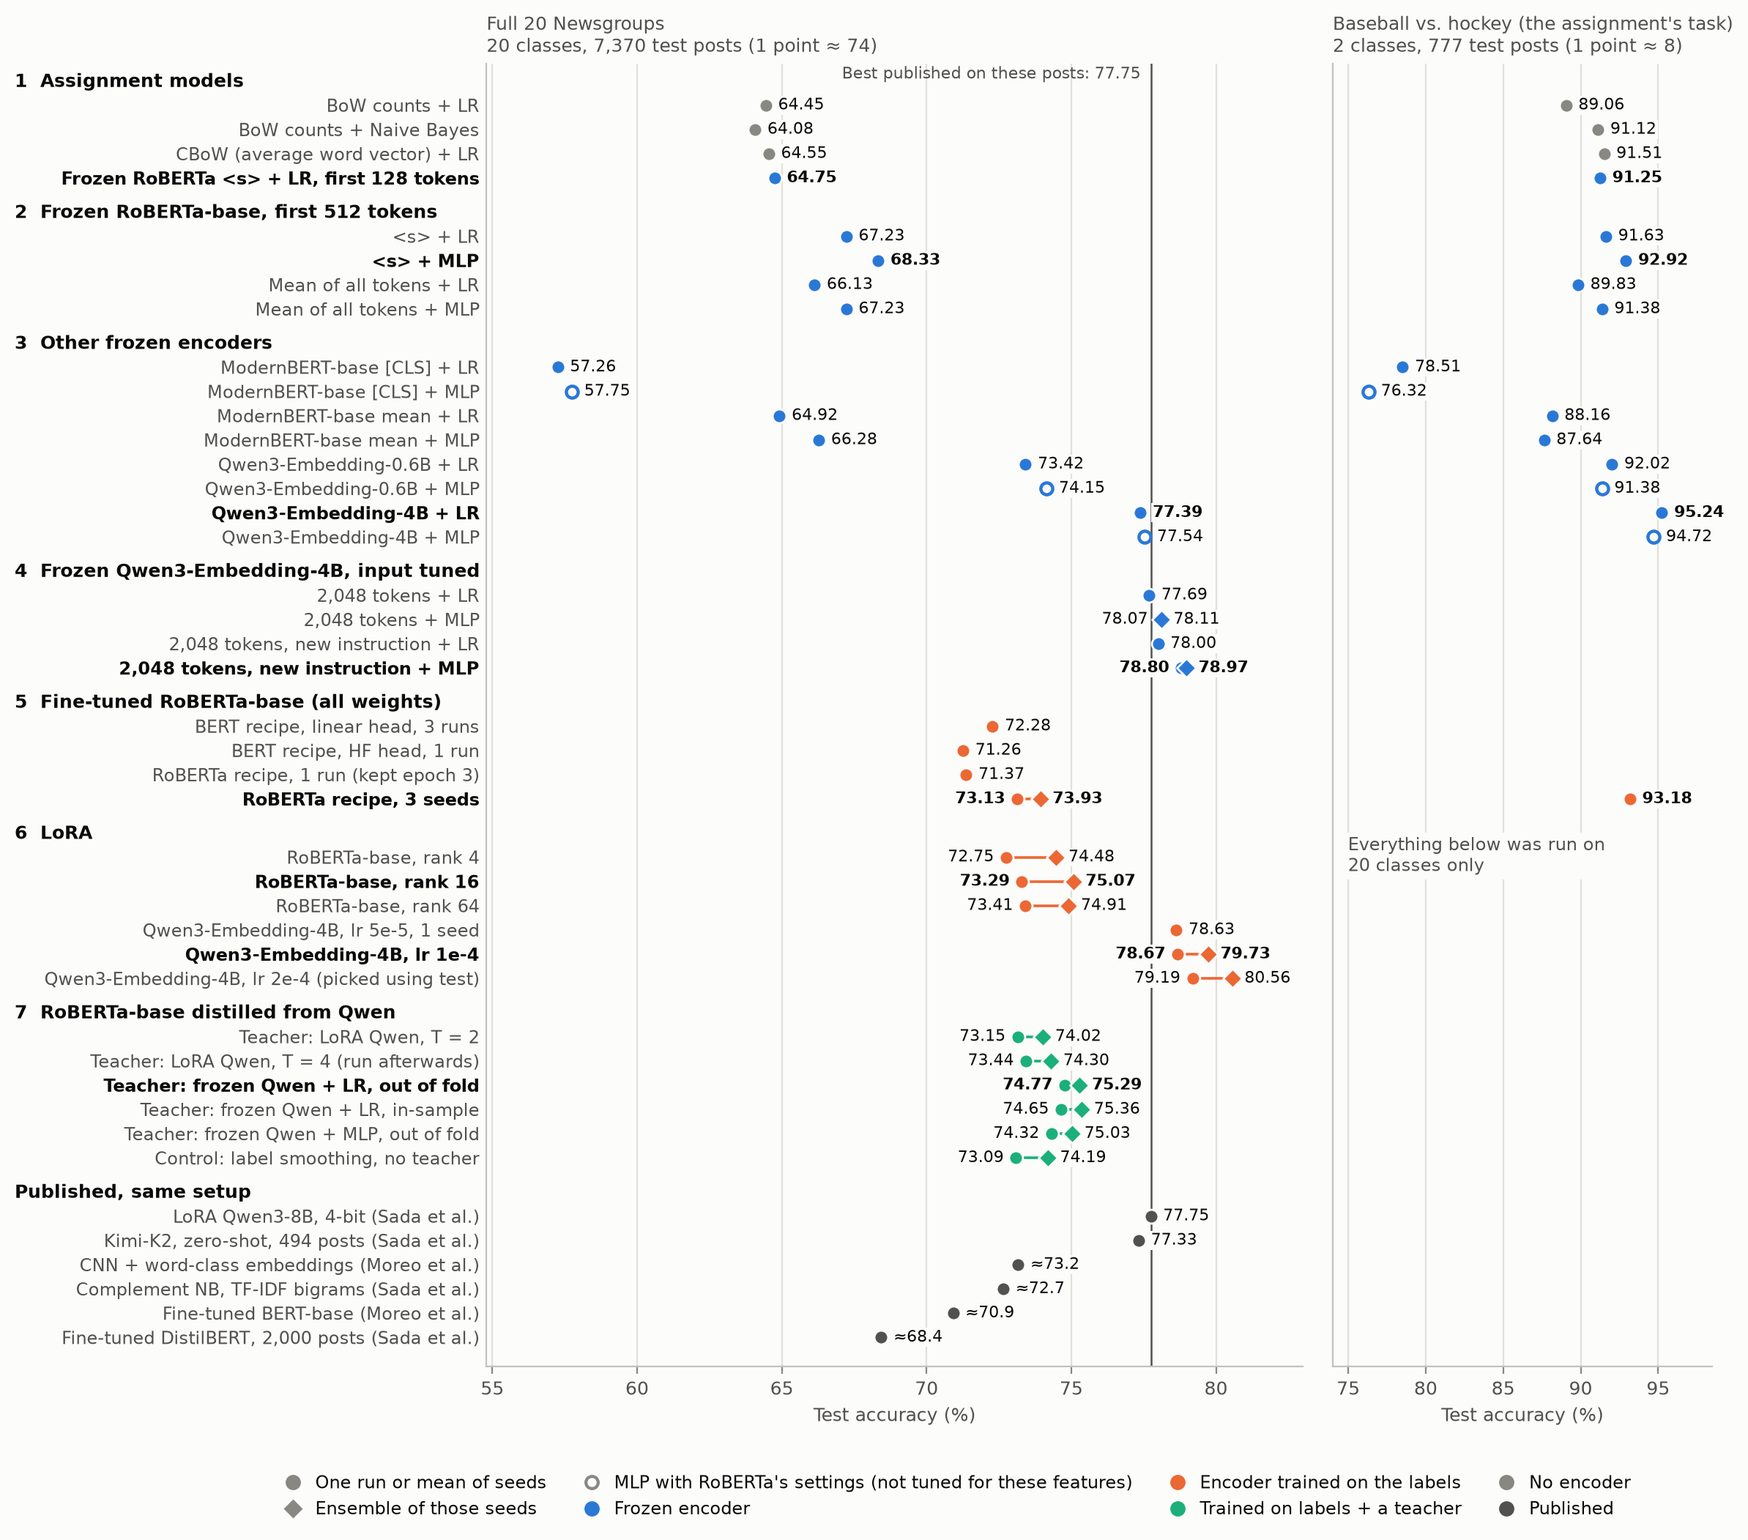
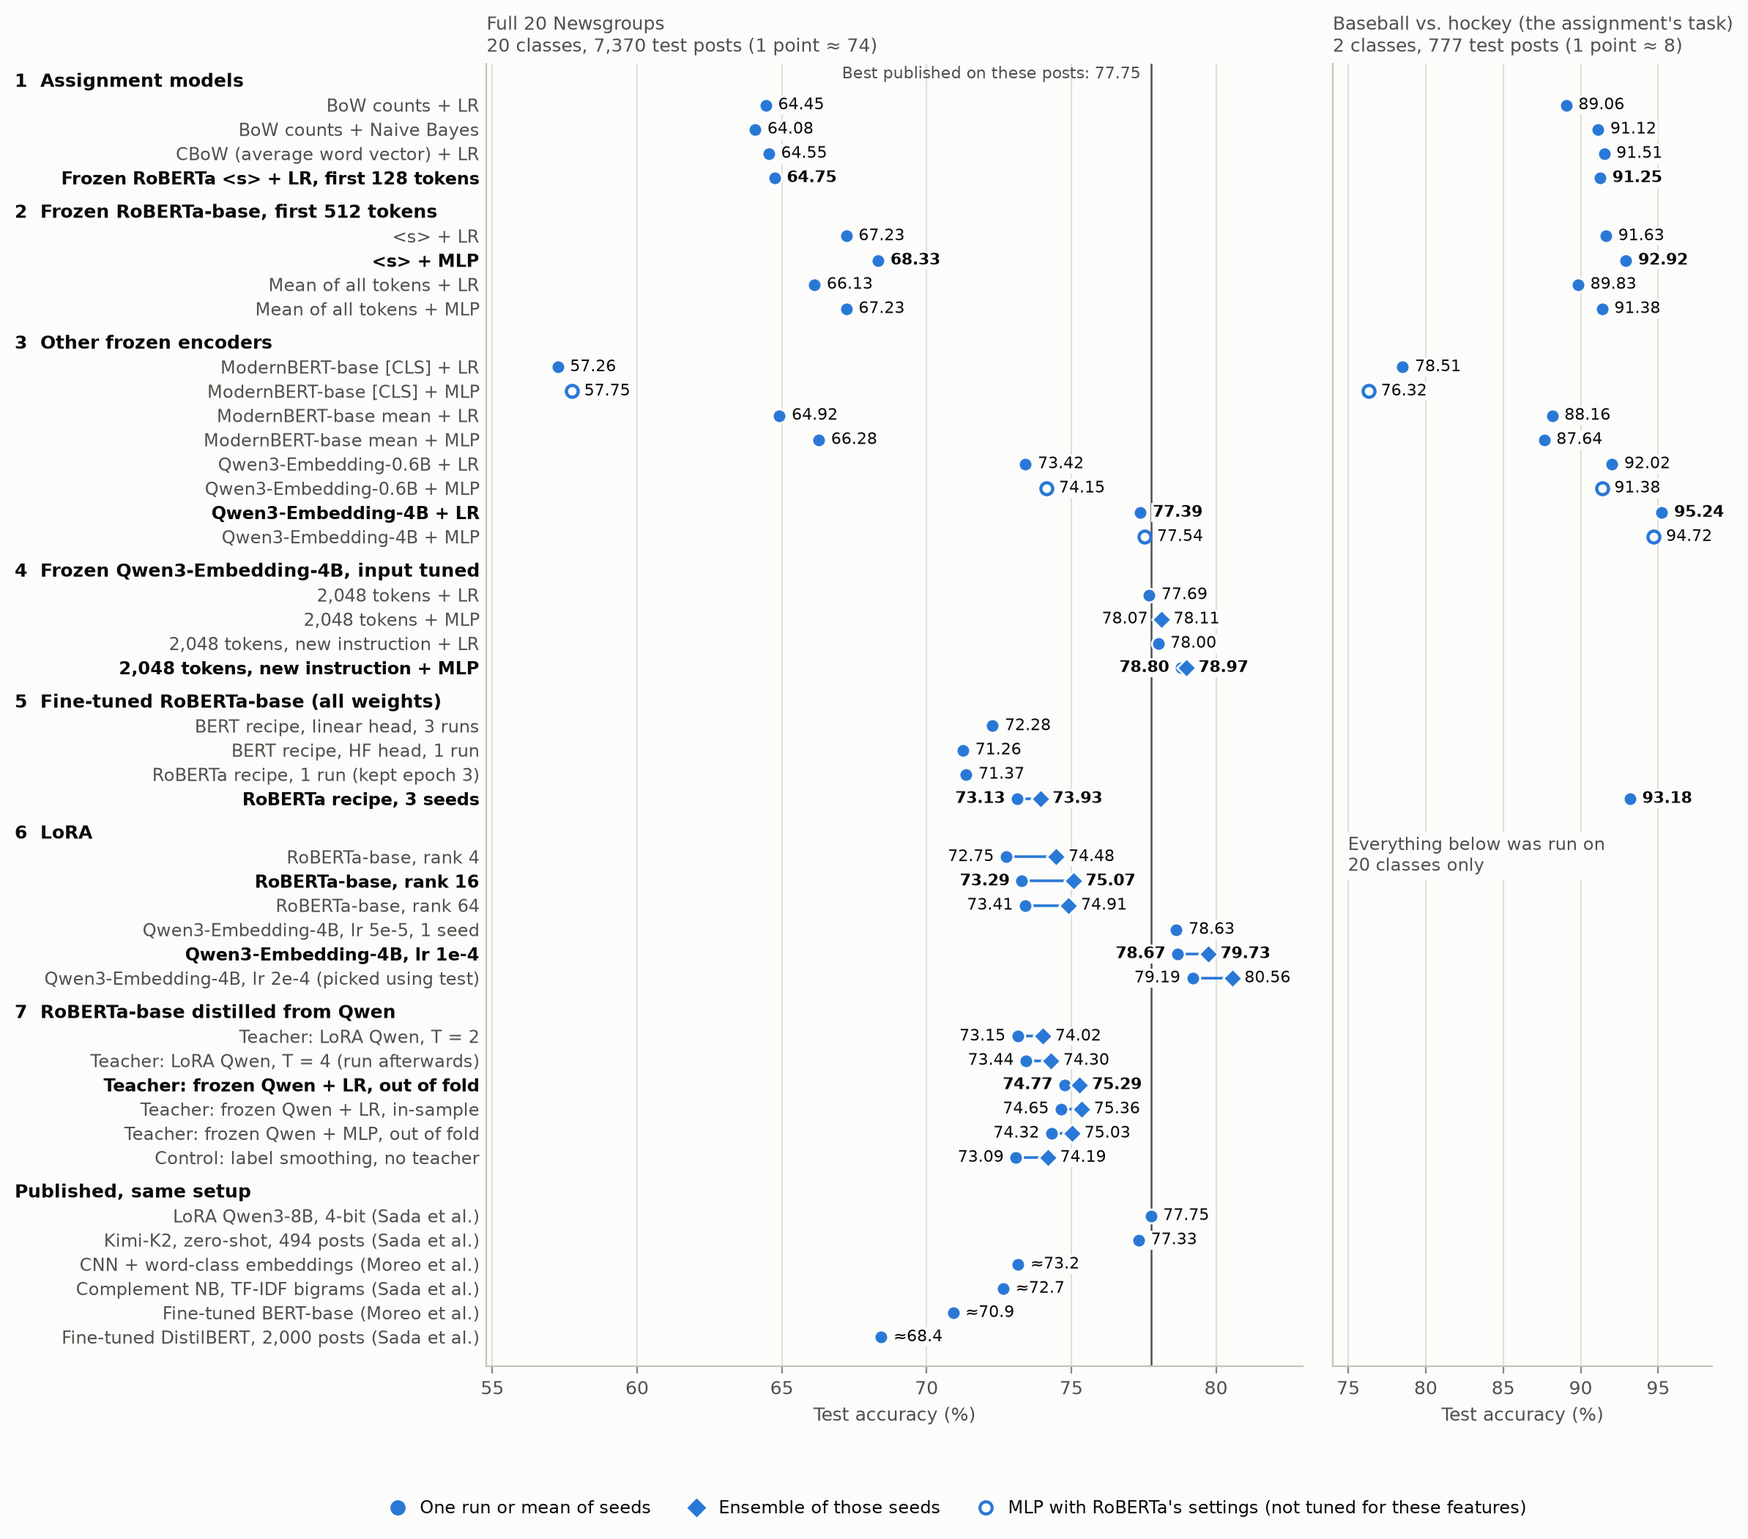
Change README wording and reduce graph redundant colors

diff --git a/figures/make_all_results.py b/figures/make_all_results.py
@@ -23,8 +23,7 @@ HERE = Path(__file__).resolve().parent
 # Colors from a validated palette, light chart surface (the same one as ../frozen/make_frozen_results.py)
 SURFACE, INK, INK_2, MUTED = "#fcfcfb", "#0b0b0b", "#52514e", "#898781"
 GRID, AXIS = "#e1e0d9", "#c3c2b7"
-BLUE, ORANGE, AQUA = "#2a78d6", "#eb6834", "#1baf7a"
-NO_ENCODER, FROZEN, TRAINED, DISTILLED, PUBLISHED = MUTED, BLUE, ORANGE, AQUA, INK_2
+COLOR = "#2a78d6"
 plt.rcParams.update({
     "figure.facecolor": SURFACE, "axes.facecolor": SURFACE, "savefig.facecolor": SURFACE,
     "font.size": 9, "text.color": INK, "axes.labelcolor": INK_2, "axes.titlesize": 9,
@@ -39,27 +38,27 @@ def estimated(reported, total=7532, empty=162, guess_rate=0.05):
     return (reported / 100 * total - guess_rate * empty) / (total - empty) * 100
 
 
-# (section title, color of its rows, rows). A row is (label, 20NG: one run or mean of seeds, 20NG: ensemble, baseball vs.
-# hockey). Optional: key=True prints the row in bold, untuned=True draws a hollow dot, approx=True prints "≈", and
-# color=... overrides the section's color. BoW + LR is the better of unigram and unigram + bigram features.
+# (section title, rows). A row is (label, 20NG: one run or mean of seeds, 20NG: ensemble, baseball vs. hockey).
+# Optional: key=True prints the row in bold, untuned=True draws a hollow dot, approx=True prints "≈".
+# BoW + LR is the better of unigram and unigram + bigram features.
 def row(label, single, ensemble=None, sports=None, **flags):
     return dict(label=label, single=single, ensemble=ensemble, sports=sports, **flags)
 
 
 SECTIONS = [
-    ("1  Assignment models", NO_ENCODER, [
+    ("1  Assignment models", [
         row("BoW counts + LR", 64.45, sports=89.06),
         row("BoW counts + Naive Bayes", 64.08, sports=91.12),
         row("CBoW (average word vector) + LR", 64.55, sports=91.51),
-        row("Frozen RoBERTa <s> + LR, first 128 tokens", 64.75, sports=91.25, key=True, color=FROZEN),
+        row("Frozen RoBERTa <s> + LR, first 128 tokens", 64.75, sports=91.25, key=True),
     ]),
-    ("2  Frozen RoBERTa-base, first 512 tokens", FROZEN, [
+    ("2  Frozen RoBERTa-base, first 512 tokens", [
         row("<s> + LR", 67.23, sports=91.63),
         row("<s> + MLP", 68.33, sports=92.92, key=True),
         row("Mean of all tokens + LR", 66.13, sports=89.83),
         row("Mean of all tokens + MLP", 67.23, sports=91.38),
     ]),
-    ("3  Other frozen encoders", FROZEN, [
+    ("3  Other frozen encoders", [
         row("ModernBERT-base [CLS] + LR", 57.26, sports=78.51),
         row("ModernBERT-base [CLS] + MLP", 57.75, sports=76.32, untuned=True),
         row("ModernBERT-base mean + LR", 64.92, sports=88.16),
@@ -69,19 +68,19 @@ SECTIONS = [
         row("Qwen3-Embedding-4B + LR", 77.39, sports=95.24, key=True),
         row("Qwen3-Embedding-4B + MLP", 77.54, sports=94.72, untuned=True),
     ]),
-    ("4  Frozen Qwen3-Embedding-4B, input tuned", FROZEN, [
+    ("4  Frozen Qwen3-Embedding-4B, input tuned", [
         row("2,048 tokens + LR", 77.69),
         row("2,048 tokens + MLP", 78.07, 78.11),
         row("2,048 tokens, new instruction + LR", 78.00),
         row("2,048 tokens, new instruction + MLP", 78.80, 78.97, key=True),
     ]),
-    ("5  Fine-tuned RoBERTa-base (all weights)", TRAINED, [
+    ("5  Fine-tuned RoBERTa-base (all weights)", [
         row("BERT recipe, linear head, 3 runs", 72.28),
         row("BERT recipe, HF head, 1 run", 71.26),
         row("RoBERTa recipe, 1 run (kept epoch 3)", 71.37),
         row("RoBERTa recipe, 3 seeds", 73.13, 73.93, sports=93.18, key=True),
     ]),
-    ("6  LoRA", TRAINED, [
+    ("6  LoRA", [
         row("RoBERTa-base, rank 4", 72.75, 74.48),
         row("RoBERTa-base, rank 16", 73.29, 75.07, key=True),
         row("RoBERTa-base, rank 64", 73.41, 74.91),
@@ -89,7 +88,7 @@ SECTIONS = [
         row("Qwen3-Embedding-4B, lr 1e-4", 78.67, 79.73, key=True),
         row("Qwen3-Embedding-4B, lr 2e-4 (picked using test)", 79.19, 80.56),
     ]),
-    ("7  RoBERTa-base distilled from Qwen", DISTILLED, [
+    ("7  RoBERTa-base distilled from Qwen", [
         row("Teacher: LoRA Qwen, T = 2", 73.15, 74.02),
         row("Teacher: LoRA Qwen, T = 4 (run afterwards)", 73.44, 74.30),
         row("Teacher: frozen Qwen + LR, out of fold", 74.77, 75.29, key=True),
@@ -97,7 +96,7 @@ SECTIONS = [
         row("Teacher: frozen Qwen + MLP, out of fold", 74.32, 75.03),
         row("Control: label smoothing, no teacher", 73.09, 74.19),
     ]),
-    ("Published, same setup", PUBLISHED, [
+    ("Published, same setup", [
         row("LoRA Qwen3-8B, 4-bit (Sada et al.)", 77.75),                       # rescored from their predictions
         row("Kimi-K2, zero-shot, 494 posts (Sada et al.)", 77.33),              # same
         row("CNN + word-class embeddings (Moreo et al.)", estimated(71.7), approx=True),
@@ -113,11 +112,11 @@ PANELS = [("Full 20 Newsgroups\n20 classes, 7,370 test posts (1 point ≈ 74)", 
 
 # y positions top to bottom: a line for each section's title, a line per row, a small gap between sections
 items, y = [], 0.0
-for title, color, rows in SECTIONS:
+for title, rows in SECTIONS:
     items.append(("title", y, title))
     y -= 0.95
     for r in rows:
-        items.append(("row", y, {"color": color} | r))
+        items.append(("row", y, r))
         y -= 1
     y -= 0.45
 rows = [(yy, r) for kind, yy, r in items if kind == "row"]
@@ -138,9 +137,9 @@ def value(a, x, side, approx=False, bold=False):
 
 def dot(a, x, r):
     if r.get("untuned"):
-        a.scatter(x, yy, s=34, facecolor=SURFACE, edgecolor=r["color"], linewidth=1.6, zorder=3)
+        a.scatter(x, yy, s=34, facecolor=SURFACE, edgecolor=COLOR, linewidth=1.6, zorder=3)
     else:
-        a.scatter(x, yy, s=46, color=r["color"], edgecolor=SURFACE, linewidth=1.0, zorder=3)
+        a.scatter(x, yy, s=46, color=COLOR, edgecolor=SURFACE, linewidth=1.0, zorder=3)
 
 
 # A thin reference line: everything right of it beats the best published result on these posts
@@ -151,8 +150,8 @@ for yy, r in rows:
     if r["ensemble"] is None:
         value(ax, r["single"], "right", r.get("approx", False), bold)
     else:
-        ax.plot([r["single"], r["ensemble"]], [yy, yy], color=r["color"], linewidth=1.3, zorder=2, solid_capstyle="butt")
-        ax.scatter(r["ensemble"], yy, s=44, marker="D", color=r["color"], edgecolor=SURFACE, linewidth=1.0, zorder=3)
+        ax.plot([r["single"], r["ensemble"]], [yy, yy], color=COLOR, linewidth=1.3, zorder=2, solid_capstyle="butt")
+        ax.scatter(r["ensemble"], yy, s=44, marker="D", color=COLOR, edgecolor=SURFACE, linewidth=1.0, zorder=3)
         value(ax, r["single"], "left", bold=bold)
         value(ax, r["ensemble"], "right", bold=bold)
     if r["sports"] is not None:
@@ -188,16 +187,11 @@ ax2.text(0.04, last_sports_y - 1.5, "Everything below was run on\n20 classes onl
          transform=ax2.get_yaxis_transform(), va="top", bbox=dict(boxstyle="square,pad=0.15", fc=SURFACE, ec="none"))
 
 fig.legend(handles=[
-    Line2D([], [], marker="o", linestyle="", markersize=6.5, color=MUTED, label="One run or mean of seeds"),
-    Line2D([], [], marker="D", linestyle="", markersize=5.5, color=MUTED, label="Ensemble of those seeds"),
-    Line2D([], [], marker="o", linestyle="", markersize=6, markerfacecolor=SURFACE, markeredgecolor=MUTED,
+    Line2D([], [], marker="o", linestyle="", markersize=6.5, color=COLOR, label="One run or mean of seeds"),
+    Line2D([], [], marker="D", linestyle="", markersize=5.5, color=COLOR, label="Ensemble of those seeds"),
+    Line2D([], [], marker="o", linestyle="", markersize=6, markerfacecolor=SURFACE, markeredgecolor=COLOR,
            markeredgewidth=1.5, label="MLP with RoBERTa's settings (not tuned for these features)"),
-    Line2D([], [], marker="o", linestyle="", markersize=6.5, color=FROZEN, label="Frozen encoder"),
-    Line2D([], [], marker="o", linestyle="", markersize=6.5, color=TRAINED, label="Encoder trained on the labels"),
-    Line2D([], [], marker="o", linestyle="", markersize=6.5, color=DISTILLED, label="Trained on labels + a teacher"),
-    Line2D([], [], marker="o", linestyle="", markersize=6.5, color=NO_ENCODER, label="No encoder"),
-    Line2D([], [], marker="o", linestyle="", markersize=6.5, color=PUBLISHED, label="Published"),
-], loc="upper center", bbox_to_anchor=(0.42, 0.055), ncol=4, frameon=False, fontsize=8.5, columnspacing=1.6,
+], loc="upper center", bbox_to_anchor=(0.42, 0.04), ncol=3, frameon=False, fontsize=8.5, columnspacing=1.6,
     handletextpad=0.3)
 
 fig.savefig(HERE / "all_results.png", dpi=200, bbox_inches="tight")

diff --git a/figures/make_piazza_results.py b/figures/make_piazza_results.py
@@ -1,0 +1,124 @@
+"""Draw figures/piazza_results.png for README-piazza.md: the main rows of make_all_results.py, plus all of A2's models.
+
+    ~/venvs/cs423/bin/python make_piazza_results.py      (from this folder)
+"""
+from pathlib import Path
+
+import matplotlib
+matplotlib.use("Agg")
+import matplotlib.pyplot as plt
+from matplotlib.lines import Line2D
+from matplotlib.ticker import MultipleLocator
+
+HERE = Path(__file__).resolve().parent
+
+# Colors from a validated palette, light chart surface (the same one as make_all_results.py)
+SURFACE, INK, INK_2, MUTED = "#fcfcfb", "#0b0b0b", "#52514e", "#898781"
+GRID, AXIS = "#e1e0d9", "#c3c2b7"
+COLOR = "#2a78d6"
+plt.rcParams.update({
+    "figure.facecolor": SURFACE, "axes.facecolor": SURFACE, "savefig.facecolor": SURFACE,
+    "font.size": 9.5, "text.color": INK, "axes.labelcolor": INK_2, "axes.titlesize": 9.5,
+    "axes.edgecolor": AXIS, "axes.linewidth": 0.8, "axes.spines.top": False, "axes.spines.right": False,
+    "axes.grid": True, "axes.grid.axis": "x", "grid.color": GRID, "grid.linewidth": 0.8, "axes.axisbelow": True,
+    "xtick.color": MUTED, "ytick.color": MUTED, "xtick.labelcolor": INK_2, "ytick.labelcolor": INK_2,
+})
+
+BEST_PUBLISHED = 77.75
+HEADLINE = "Qwen, LoRA"
+PICKED_USING_TEST = "Qwen, LoRA, lr 2e-4 (picked using test)"
+# (section title, rows). A row is (label, 20NG: one run or mean of seeds, 20NG: ensemble, baseball vs. hockey)
+SECTIONS = [
+    ("Assignment models", [
+        ("BoW counts + LR", 64.45, None, 89.06),
+        ("BoW counts + Naive Bayes", 64.08, None, 91.12),
+        ("CBoW (average word vector) + LR", 64.55, None, 91.51),
+        ("Frozen RoBERTa + LR, first 128 tokens", 64.75, None, 91.25)]),
+    ("Frozen models", [
+        ("RoBERTa, 512 tokens + tuned MLP", 68.33, None, 92.92),
+        ("ModernBERT, mean + MLP", 66.28, None, 87.64),
+        ("Qwen3-Embedding-4B + LR", 77.39, None, 95.24),
+        ("Qwen, tuned input + MLP", 78.80, 78.97, None)]),
+    ("Fine-tuned", [
+        ("RoBERTa, all weights", 73.13, 73.93, 93.18),
+        ("RoBERTa, LoRA", 73.29, 75.07, None),
+        (HEADLINE, 78.67, 79.73, None),
+        (PICKED_USING_TEST, 79.19, 80.56, None)]),
+    ("Distillation", [
+        ("RoBERTa, LoRA Qwen as teacher", 73.15, 74.02, None),
+        ("RoBERTa, frozen Qwen + LR as teacher", 74.77, 75.29, None)]),
+]
+
+# y positions top to bottom: a line for each section's title, a line per row, a small gap between sections
+rows, titles, y = [], [], 0.0
+for title, section in SECTIONS:
+    titles.append((y, title))
+    y -= 0.95
+    for row in section:
+        rows.append((y, *row))
+        y -= 1
+    y -= 0.35
+y_bottom = y + 0.35
+
+fig, (ax, ax2) = plt.subplots(1, 2, figsize=(9.2, 0.27 * abs(y_bottom) + 1.0), sharey=True,
+                              gridspec_kw={"wspace": 0.05, "width_ratios": [2.1, 1]})
+
+
+def value(a, x, yy, side, bold=False):
+    a.annotate(f"{x:.2f}", (x, yy), xytext=(6 if side == "right" else -6, 0), textcoords="offset points", va="center",
+               ha="left" if side == "right" else "right", color=INK, fontsize=8.5,
+               fontweight="bold" if bold else "normal", bbox=dict(boxstyle="square,pad=0.08", fc=SURFACE, ec="none"),
+               zorder=4)
+
+
+# Everything right of this line beats the best published result on these posts
+ax.axvline(BEST_PUBLISHED, color=INK_2, linewidth=0.9, zorder=1)
+for yy, label, single, ensemble, sports in rows:
+    hollow = label == PICKED_USING_TEST   # a row chosen after seeing test scores
+    marks = dict(facecolor=SURFACE if hollow else COLOR, edgecolor=COLOR if hollow else SURFACE,
+                 linewidth=1.5 if hollow else 1.0, zorder=3)
+    ax.scatter(single, yy, s=48, **marks)
+    if ensemble is None:
+        value(ax, single, yy, "right")
+    else:
+        ax.plot([single, ensemble], [yy, yy], color=COLOR, linewidth=1.3, zorder=2, solid_capstyle="butt")
+        ax.scatter(ensemble, yy, s=44, marker="D", **marks)
+        value(ax, single, yy, "left")
+        value(ax, ensemble, yy, "right", bold=label == HEADLINE)
+    if sports is not None:
+        ax2.scatter(sports, yy, s=48, color=COLOR, edgecolor=SURFACE, linewidth=1.0, zorder=3)
+        value(ax2, sports, yy, "right")
+
+ax.set_title("All 20 newsgroups\n20 classes, 7,370 test posts", loc="left", color=INK_2)
+ax2.set_title("Baseball vs. hockey (A2's task)\n2 classes, 777 test posts", loc="left", color=INK_2)
+ax.set_xlim(62, 83)
+ax2.set_xlim(85.5, 98.5)
+ax.xaxis.set_major_locator(MultipleLocator(5))
+ax2.xaxis.set_major_locator(MultipleLocator(5))
+for a in (ax, ax2):
+    a.set_xlabel("Test accuracy (%)")
+    a.tick_params(axis="y", length=0)
+ax.annotate(f"Best published on these posts: {BEST_PUBLISHED:.2f}", (BEST_PUBLISHED, 1.0),
+            xycoords=("data", "axes fraction"), xytext=(-5, -2), textcoords="offset points", ha="right", va="top",
+            color=INK_2, fontsize=8.5)
+ax.set_yticks([r[0] for r in rows], [r[1] for r in rows])
+for tick, r in zip(ax.get_yticklabels(), rows):
+    tick.set_color(MUTED if r[1] == PICKED_USING_TEST else INK_2)
+for yy, title in titles:
+    # Section titles start at a fixed spot in the label column
+    ax.annotate(title, (0, yy), xycoords=("axes fraction", "data"), xytext=(-195, 0), textcoords="offset points",
+                ha="left", va="center", color=INK, fontsize=9.5, fontweight="bold")
+ax.set_ylim(y_bottom - 0.1, 0.75)
+
+# The lower part of this panel is empty on purpose
+ax2.text(0.05, rows[9][0], "LoRA and distillation were\nrun on 20 classes only", color=INK_2, fontsize=8.5,
+         transform=ax2.get_yaxis_transform(), va="top", bbox=dict(boxstyle="square,pad=0.15", fc=SURFACE, ec="none"))
+
+fig.legend(handles=[
+    Line2D([], [], marker="o", linestyle="", markersize=6.5, color=COLOR, label="One run or mean of seeds"),
+    Line2D([], [], marker="D", linestyle="", markersize=5.5, color=COLOR, label="Ensemble of those seeds"),
+], loc="upper center", bbox_to_anchor=(0.42, 0.045), ncol=2, frameon=False, fontsize=8.5, columnspacing=1.6,
+    handletextpad=0.3)
+
+fig.savefig(HERE / "piazza_results.png", dpi=200, bbox_inches="tight")
+print("wrote", HERE / "piazza_results.png")

diff --git a/README.md b/README.md
@@ -5,7 +5,7 @@ An extension of Assignment 2 in UBC's CPSC 423, Natural Language Processing (act
 **Result: 64.75% → 79.73%.** That's from the assignment's frozen RoBERTa + logistic regression (LR) to an ensemble of 3 LoRA-fine-tuned Qwen3-Embedding-4B models. The best published result I found on the same posts is 77.75%.
 
 - **The encoder mattered most.** Swapping it gained 10 points. Tuning the classifier on top gained about 1.
-- **Averaging seeds beat tuning.** For LoRA, averaging 3 seeds gained 1.1 to 1.8 points, while changing Qwen's learning rate or RoBERTa's rank never moved a 3-seed mean by 1 point.
+- **Fine-tuning helped RoBERTa a lot, but barely helped Qwen.** A full fine-tune gained RoBERTa 4.8 points. LoRA, the only option for Qwen on this GPU, practically tied its frozen model.
 - **A less accurate teacher taught better.** Distilling into RoBERTa gained nothing from a 78.68% teacher that had memorized its training posts, and 1.64 points from a 77.72% teacher that hadn't.
 
 ![Test accuracy of every model, from the assignment's models at about 64% to LoRA Qwen3-Embedding-4B at 79.73%](figures/all_results.png)
@@ -33,7 +33,7 @@ An extension of Assignment 2 in UBC's CPSC 423, Natural Language Processing (act
 **6. LoRA: 78.67, ensemble 79.73.** Fully fine-tuning Qwen's 4 billion weights would take about 68 GB, at 16 bytes per weight (32-bit weight, gradient, AdamW's two averages). LoRA ([Hu et al. 2022](https://arxiv.org/abs/2106.09685)) freezes them and trains small low-rank matrices beside them: rank 16 on all 7 projection matrices of all 36 layers, 0.8% of the weights, 9.6 GB peak.
 - **It practically tied the frozen model.** The ensemble is my best result, but leads the frozen ensemble by only 0.76 (p = 0.018).
 - **LoRA wasn't the limit, at least on RoBERTa,** where a full fine-tune fits. LoRA tied it (73.29 vs. 73.13) training 2.6% of the weights, and its ensemble was better (75.07 vs. 73.93, p = 0.0004), since its seeds disagree more.
-- **Tuning moved nothing.** Qwen's learning rate and RoBERTa's rank each moved the 3-seed mean by under 1 point, while the seed alone moved a run by up to 1.2.
+- **Tuning moved nothing.** Qwen's learning rate and RoBERTa's rank each moved the 3-seed mean by under 1 point, while the seed alone moved a run by up to 1.2. Averaging 3 seeds gained more: 1.1 to 1.8 points.
 
 **7. Distill Qwen into RoBERTa: 74.77, ensemble 75.29.** Can a model with 1/32 of the weights inherit Qwen's edge? Distillation ([Hinton et al. 2015](https://arxiv.org/abs/1503.02531)) trains a student on the teacher's full probability distribution, whose small probabilities say what a post resembles: a Mac hardware post is more like PC hardware than hockey. That's often called "dark knowledge", from Hinton's [2014 talk](https://www.ttic.edu/dl/dark14.pdf); the paper itself says "relative probabilities of incorrect answers".
 - **LoRA Qwen as the teacher: no effect** (73.15 vs. 73.13 plain). It had memorized the posts it was labeling: 98.2% right, with a median of 1.6% of the probability off the true class at T = 2. Its soft labels were nearly the hard ones.
